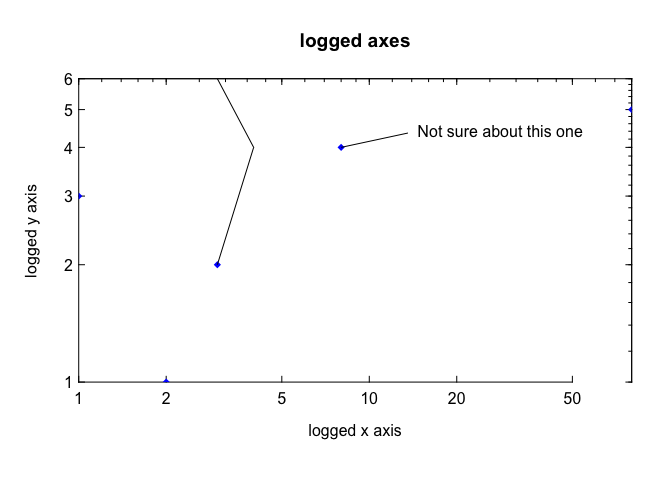
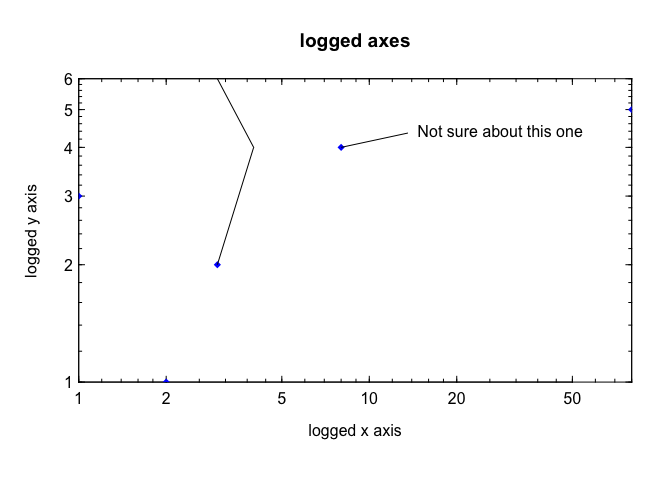
tweak to axis call, and found a whoops

diff --git a/README.md b/README.md
@@ -94,7 +94,7 @@ myplot <- myplot %>% points(4,3,col="blue")
 myplot
 ```
 
-![](README_files/figure-markdown_github/unnamed-chunk-3-1.png)<!-- -->
+![](README_files/figure-markdown_github/unnamed-chunk-3-1.png)
 
 <a name="legend"></a>
 
@@ -128,7 +128,7 @@ myplot <- gsplot() %>%
 myplot
 ```
 
-![](README_files/figure-markdown_github/unnamed-chunk-5-1.png)<!-- -->
+![](README_files/figure-markdown_github/unnamed-chunk-5-1.png)
 
 <a name="limits"></a>
 
@@ -153,7 +153,7 @@ limitsplot <- gsplot() %>%
 limitsplot
 ```
 
-![](README_files/figure-markdown_github/unnamed-chunk-7-1.png)<!-- -->
+![](README_files/figure-markdown_github/unnamed-chunk-7-1.png)
 
 <a name="error"></a>
 
@@ -179,7 +179,7 @@ errorbarplot <- gsplot() %>%
 errorbarplot
 ```
 
-![](README_files/figure-markdown_github/unnamed-chunk-9-1.png)<!-- -->
+![](README_files/figure-markdown_github/unnamed-chunk-9-1.png)
 
 <a name="callouts"></a>
 
@@ -204,7 +204,7 @@ calloutsplot <- gsplot() %>%
 calloutsplot
 ```
 
-![](README_files/figure-markdown_github/unnamed-chunk-11-1.png)<!-- -->
+![](README_files/figure-markdown_github/unnamed-chunk-11-1.png)
 
 <a name="reverse"></a>
 
@@ -226,7 +226,7 @@ reverseplot <- gsplot() %>%
 reverseplot
 ```
 
-![](README_files/figure-markdown_github/unnamed-chunk-13-1.png)<!-- -->
+![](README_files/figure-markdown_github/unnamed-chunk-13-1.png)
 
 <a name="embed"></a>
 
@@ -256,7 +256,7 @@ embedplot <- gsplot() %>%
 embedplot
 ```
 
-![](README_files/figure-markdown_github/unnamed-chunk-15-1.png)<!-- -->
+![](README_files/figure-markdown_github/unnamed-chunk-15-1.png)
 
 <a name="base"></a>
 
@@ -272,7 +272,7 @@ gs
 points(1.2,2.5)
 ```
 
-![](README_files/figure-markdown_github/unnamed-chunk-16-1.png)<!-- -->
+![](README_files/figure-markdown_github/unnamed-chunk-16-1.png)
 
 Improved workflow examples
 --------------------------
@@ -295,7 +295,7 @@ demoPlot <- gsplot() %>%
 demoPlot
 ```
 
-![](README_files/figure-markdown_github/unnamed-chunk-17-1.png)<!-- -->
+![](README_files/figure-markdown_github/unnamed-chunk-17-1.png)
 
 ``` r
 gs <- gsplot() %>%
@@ -305,12 +305,12 @@ gs <- gsplot() %>%
         ylab="logged y axis", xlab="logged x axis", log='xy') %>%
   callouts(x=8, y=4, lwd=2, angle=45, labels="Not sure about this one") %>%
   title("logged axes") %>%
-  axis(side=c(1,2,3,4), labels=FALSE, n.minor=4) %>%
-  axis(side=c(1,2))
+  axis(side=c(3,4), labels=FALSE, n.minor=4) %>%
+  axis(side=c(1,2), n.minor=4)
 gs
 ```
 
-![](README_files/figure-markdown_github/unnamed-chunk-18-1.png)<!-- -->
+![](README_files/figure-markdown_github/unnamed-chunk-18-1.png)
 
 ``` r
 usrDef <- gsplot(mar=c(4,4,4,4), xaxs='r', yaxs='r') %>% 
@@ -322,7 +322,7 @@ usrDef <- gsplot(mar=c(4,4,4,4), xaxs='r', yaxs='r') %>%
 usrDef
 ```
 
-![](README_files/figure-markdown_github/unnamed-chunk-19-1.png)<!-- -->
+![](README_files/figure-markdown_github/unnamed-chunk-19-1.png)
 
 Disclaimer
 ----------
